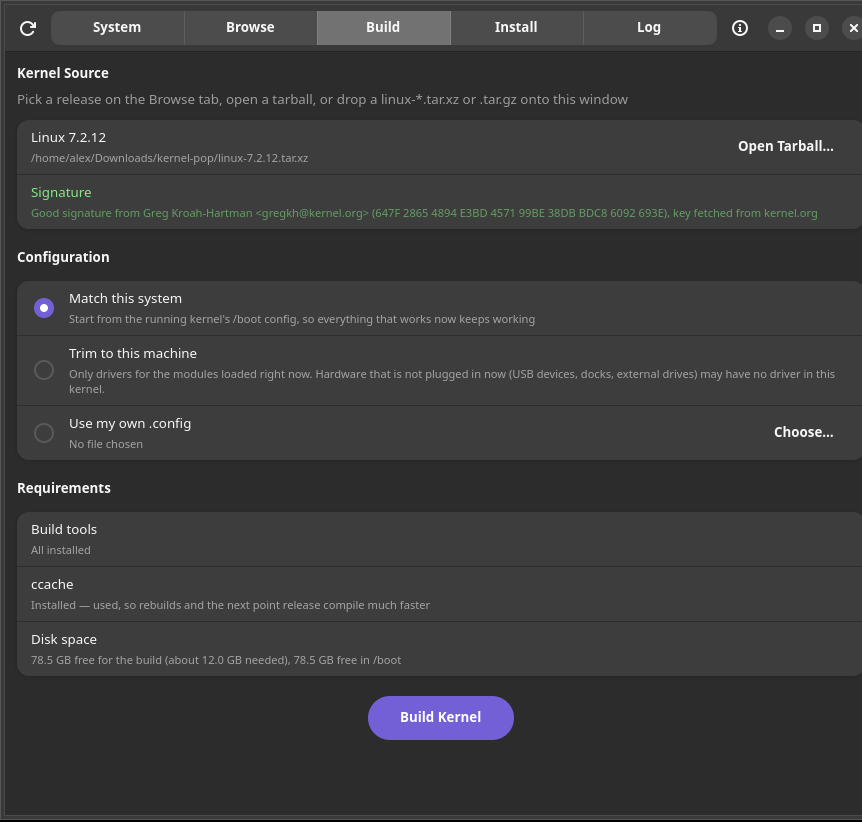
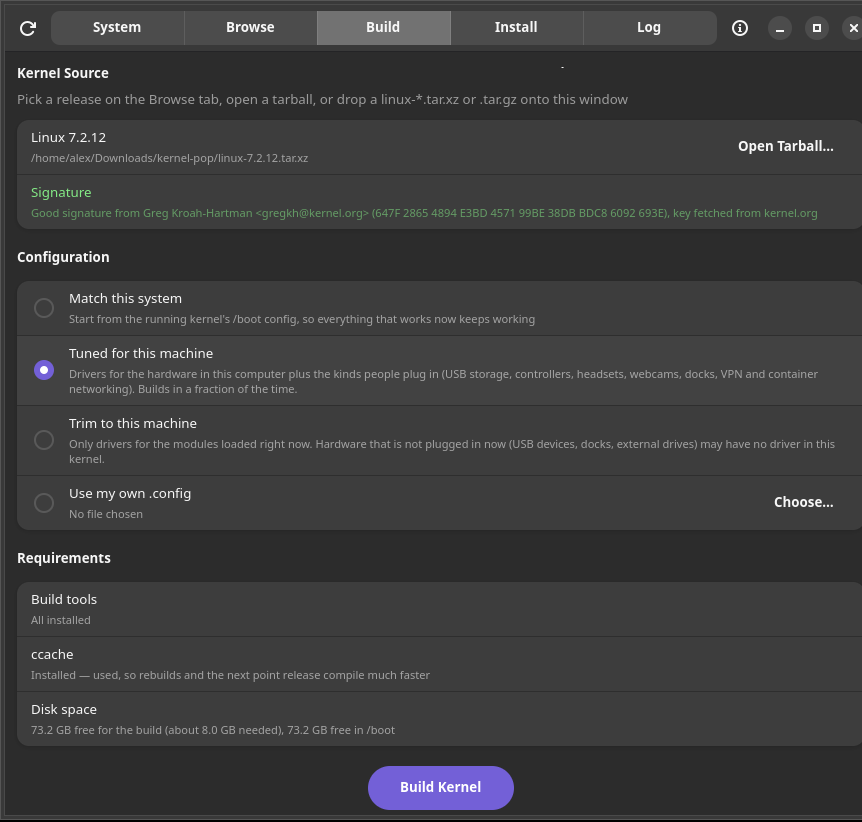
Add the "Tuned for this machine" configuration
localmodconfig over the modules loaded now, the modalias-resolved driver
of every device present, and a fixed list of drivers for hardware that is
often plugged in later (USB storage, file systems, input and game
controllers, USB audio and webcams, Bluetooth, USB network adapters and
tethering, docks, printers, VPN/container/VM networking). Linux 7.2.12 on
the test machine: 369 modules instead of 6703, 8 min instead of 26.
Match this system stays the default. Release 2.1.0.

diff --git a/src/build.rs b/src/build.rs
@@ -46,6 +46,45 @@ pub const BUILD_DEPS: &[&str] = &[
 pub const BUILD_NEED_BYTES: u64 = 12 * 1024 * 1024 * 1024;
 /// The same for "Trim to this machine", which builds far fewer modules.
 pub const TRIM_BUILD_NEED_BYTES: u64 = 6 * 1024 * 1024 * 1024;
+/// The same for "Tuned for this machine".
+pub const TUNED_BUILD_NEED_BYTES: u64 = 8 * 1024 * 1024 * 1024;
+
+/// Drivers "Tuned for this machine" always keeps, for hardware that is often
+/// plugged in later or used only now and then: USB storage and card
+/// readers, the common file systems, input devices and game controllers,
+/// USB audio and webcams, Bluetooth, USB network adapters and phone
+/// tethering, docks, printers and serial adapters, and the networking that
+/// VPNs, containers and virtual machines load on demand. Names that do not
+/// exist in a tree are ignored by localmodconfig.
+pub const TUNED_EXTRA_MODULES: &[&str] = &[
+    // storage and card readers
+    "usb_storage", "uas", "sd_mod", "sr_mod", "cdrom", "mmc_block", "sdhci", "sdhci_pci", "sdhci_acpi",
+    "rtsx_pci", "rtsx_pci_sdmmc", "rtsx_usb", "rtsx_usb_sdmmc", "nvme",
+    // file systems
+    "vfat", "fat", "msdos", "exfat", "ntfs3", "isofs", "udf", "ext4", "btrfs", "xfs", "f2fs", "hfsplus",
+    "fuse", "squashfs", "overlay", "nls_utf8", "nls_cp437", "nls_iso8859_1", "nls_ascii", "cifs", "nfs", "nfsv4",
+    // input and game controllers
+    "usbhid", "hid_generic", "hid_multitouch", "hid_logitech_dj", "hid_logitech_hidpp", "hid_sony",
+    "hid_playstation", "hid_nintendo", "hid_microsoft", "hid_apple", "hid_steam", "xpad", "joydev", "uinput",
+    "i2c_hid_acpi",
+    // audio and video
+    "snd_usb_audio", "uvcvideo",
+    // Bluetooth
+    "bluetooth", "btusb", "btintel", "btrtl", "btbcm", "btmtk",
+    // USB network adapters and phone tethering
+    "usbnet", "cdc_ether", "cdc_ncm", "cdc_mbim", "rndis_host", "r8152", "ax88179_178a", "asix", "ipheth",
+    // docks, USB-C and Thunderbolt
+    "thunderbolt", "typec_displayport", "ucsi_acpi", "typec_ucsi",
+    // printers and serial adapters
+    "usblp", "cdc_acm", "usbserial", "ftdi_sio", "cp210x", "ch341", "pl2303",
+    // VPNs, containers and virtual machines
+    "tun", "tap", "wireguard", "veth", "bridge", "br_netfilter", "vxlan", "macvlan", "ipvlan", "nf_tables",
+    "nft_compat", "nft_chain_nat", "nf_nat", "nf_conntrack", "xt_MASQUERADE", "xt_conntrack", "xt_addrtype",
+    "iptable_nat", "iptable_filter", "ip6table_nat", "ip6table_filter", "kvm", "kvm_intel", "kvm_amd",
+    "vhost_net", "vhost_vsock",
+    // encrypted and image-backed disks, compressed swap, Wine/Proton sync
+    "dm_crypt", "dm_mod", "loop", "zram", "ntsync",
+];
 
 /// The build profile that keeps bindeb-pkg from making a linux-image-*-dbg
 /// package (its prefix follows KDEB_SOURCENAME, left at its default).
@@ -124,6 +163,9 @@ pub enum ConfigMode {
     MatchSystem,
     /// The same, then localmodconfig against the loaded modules.
     TrimToMachine,
+    /// The same, then localmodconfig against the loaded modules, the
+    /// drivers for every device present, and `TUNED_EXTRA_MODULES`.
+    TunedForMachine,
     /// A .config file the user chose, with the fixes.
     OwnConfig(PathBuf),
 }
@@ -133,6 +175,7 @@ impl ConfigMode {
         match self {
             ConfigMode::MatchSystem => "Match this system",
             ConfigMode::TrimToMachine => "Trim to this machine",
+            ConfigMode::TunedForMachine => "Tuned for this machine",
             ConfigMode::OwnConfig(_) => "Use my own .config",
         }
     }
@@ -140,6 +183,7 @@ impl ConfigMode {
     pub fn disk_need(&self) -> u64 {
         match self {
             ConfigMode::TrimToMachine => TRIM_BUILD_NEED_BYTES,
+            ConfigMode::TunedForMachine => TUNED_BUILD_NEED_BYTES,
             _ => BUILD_NEED_BYTES,
         }
     }
@@ -598,23 +642,38 @@ fn configure(req: &BuildRequest, tree: &Path, base_config: &Path, r: &Runner) ->
     };
     olddefconfig()?;
 
-    if req.mode == ConfigMode::TrimToMachine {
-        let lsmod = Command::new("lsmod").output().context("Could not run lsmod")?;
-        if !lsmod.status.success() {
-            bail!("lsmod failed");
+    if matches!(req.mode, ConfigMode::TrimToMachine | ConfigMode::TunedForMachine) {
+        let loaded = loaded_modules().context("Could not read the loaded modules")?;
+        let mut keep: Vec<String> = loaded.clone();
+        let mut what = format!("the {} modules loaded right now", loaded.len());
+        if req.mode == ConfigMode::TunedForMachine {
+            let present = present_device_modules();
+            let extra: Vec<String> = TUNED_EXTRA_MODULES.iter().map(|m| m.to_string()).collect();
+            let new_present = present.iter().filter(|m| !loaded.contains(m)).count();
+            keep.extend(present);
+            keep.extend(extra);
+            what = format!(
+                "the {} modules loaded right now, {} more for devices present but not in use, and {} common plug-in, VPN, container and VM drivers",
+                loaded.len(),
+                new_present,
+                TUNED_EXTRA_MODULES.len()
+            );
         }
+        keep.sort();
+        keep.dedup();
         let list = tree.join(".kernel-pop-lsmod");
-        std::fs::write(&list, &lsmod.stdout)?;
-        let loaded = String::from_utf8_lossy(&lsmod.stdout).lines().count().saturating_sub(1);
+        std::fs::write(&list, lsmod_text(&keep))?;
         let mut c = make(tree, ccache);
         c.arg(format!("LSMOD={}", list.display())).arg("localmodconfig");
         r.run(c, "make localmodconfig")?;
         apply_fixes()?;
         olddefconfig()?;
-        fixes.push(format!("localmodconfig: only modules for the {loaded} modules loaded right now"));
-        notes.push(
-            "Trimmed: hardware that is not plugged in or in use right now (USB devices, docks, external drives) may have no driver in this kernel.".into(),
-        );
+        fixes.push(format!("localmodconfig: only drivers for {what}"));
+        notes.push(if req.mode == ConfigMode::TrimToMachine {
+            "Trimmed: hardware that is not plugged in or in use right now (USB devices, docks, external drives) may have no driver in this kernel.".into()
+        } else {
+            "Tuned: hardware that is not present now and not a common plug-in kind (an unusual USB gadget, a different Wi-Fi card) may have no driver in this kernel; Match this system includes everything.".into()
+        });
     }
 
     let config = std::fs::read_to_string(tree.join(".config"))?;
@@ -677,6 +736,78 @@ fn configure(req: &BuildRequest, tree: &Path, base_config: &Path, r: &Runner) ->
         r.note(l.to_string());
     }
     Ok(summary)
+}
+
+/// Module names from /proc/modules.
+fn loaded_modules() -> Result<Vec<String>> {
+    Ok(parse_proc_modules(&std::fs::read_to_string("/proc/modules")?))
+}
+
+pub fn parse_proc_modules(text: &str) -> Vec<String> {
+    text.lines().filter_map(|l| l.split_whitespace().next()).map(normalize_module).collect()
+}
+
+/// Module names use '_' and '-' interchangeably; localmodconfig compares
+/// them with '_'.
+fn normalize_module(name: &str) -> String {
+    name.trim().replace('-', "_")
+}
+
+/// The drivers for every device the kernel sees, in use or not: each
+/// device's modalias resolved with `modprobe --resolve-alias`.
+fn present_device_modules() -> Vec<String> {
+    let mut aliases = std::collections::BTreeSet::new();
+    collect_modaliases(Path::new("/sys/devices"), &mut aliases, 0);
+    let mut mods = std::collections::BTreeSet::new();
+    for chunk in aliases.into_iter().collect::<Vec<_>>().chunks(64) {
+        // One modprobe per alias (it resolves one at a time); run them in a
+        // single shell to keep the process count down.
+        let script = chunk.iter().map(|a| format!("modprobe -R {} 2>/dev/null;", shell_quote(a))).collect::<String>();
+        if let Ok(out) = Command::new("sh").arg("-c").arg(script).output() {
+            for l in String::from_utf8_lossy(&out.stdout).lines() {
+                if !l.trim().is_empty() {
+                    mods.insert(normalize_module(l));
+                }
+            }
+        }
+    }
+    mods.into_iter().collect()
+}
+
+fn collect_modaliases(dir: &Path, out: &mut std::collections::BTreeSet<String>, depth: usize) {
+    if depth > 24 {
+        return;
+    }
+    let Ok(rd) = std::fs::read_dir(dir) else { return };
+    for e in rd.flatten() {
+        let Ok(ft) = e.file_type() else { continue };
+        if ft.is_symlink() {
+            continue;
+        }
+        if ft.is_dir() {
+            collect_modaliases(&e.path(), out, depth + 1);
+        } else if e.file_name() == "modalias" {
+            if let Ok(a) = std::fs::read_to_string(e.path()) {
+                let a = a.trim();
+                if !a.is_empty() {
+                    out.insert(a.to_string());
+                }
+            }
+        }
+    }
+}
+
+fn shell_quote(s: &str) -> String {
+    format!("'{}'", s.replace('\'', "'\\''"))
+}
+
+/// An lsmod-style listing of `modules` for localmodconfig's LSMOD.
+pub fn lsmod_text(modules: &[String]) -> String {
+    let mut s = String::from("Module                  Size  Used by\n");
+    for m in modules {
+        s.push_str(&format!("{m} 0 0\n"));
+    }
+    s
 }
 
 /// A kernel release string is used in paths and package names: a plain token.
@@ -984,6 +1115,21 @@ mod tests {
     }
 
     #[test]
+    fn module_lists_for_localmodconfig() {
+        let proc = "nvidia_drm 167936 88 - Live 0x0000000000000000 (POE)\nsnd-hda-intel 69632 3 - Live 0x0\n";
+        assert_eq!(parse_proc_modules(proc), ["nvidia_drm", "snd_hda_intel"]);
+        let text = lsmod_text(&["btusb".to_string(), "usb_storage".to_string()]);
+        assert_eq!(text, "Module                  Size  Used by\nbtusb 0 0\nusb_storage 0 0\n");
+        assert_eq!(shell_quote("pci:v0000'x"), "'pci:v0000'\\''x'");
+        // Every extra is a plain module name, listed once.
+        let mut seen = std::collections::HashSet::new();
+        for m in TUNED_EXTRA_MODULES {
+            assert!(m.chars().all(|c| c.is_ascii_alphanumeric() || c == '_'), "{m}");
+            assert!(seen.insert(*m), "{m} listed twice");
+        }
+    }
+
+    #[test]
     fn config_values() {
         let c = "CONFIG_RUST=y\nCONFIG_LOCALVERSION=\"-kernelpop\"\n# CONFIG_DEBUG_INFO_NONE is not set\nCONFIG_E1000=m\nCONFIG_EXT4_FS=y\nCONFIG_SND=m\n";
         assert_eq!(config_value(c, "RUST").as_deref(), Some("y"));
@@ -1216,6 +1362,7 @@ mod tests {
         let path = PathBuf::from(std::env::var("KERNEL_POP_LIVE_TARBALL").expect("set KERNEL_POP_LIVE_TARBALL"));
         let mode = match std::env::var("KERNEL_POP_LIVE_MODE").as_deref() {
             Ok("trim") => ConfigMode::TrimToMachine,
+            Ok("tuned") => ConfigMode::TunedForMachine,
             _ => ConfigMode::MatchSystem,
         };
         let tarball = crate::source::inspect(&path).unwrap();

diff --git a/src/ui.rs b/src/ui.rs
@@ -70,6 +70,7 @@ enum SigState {
 enum ModeChoice {
     #[default]
     Match,
+    Tuned,
     Trim,
     Own,
 }
@@ -106,6 +107,7 @@ impl AppState {
     fn config_mode(&self) -> Option<ConfigMode> {
         match self.mode {
             ModeChoice::Match => Some(ConfigMode::MatchSystem),
+            ModeChoice::Tuned => Some(ConfigMode::TunedForMachine),
             ModeChoice::Trim => Some(ConfigMode::TrimToMachine),
             ModeChoice::Own => self.own_config.clone().map(ConfigMode::OwnConfig),
         }
@@ -444,6 +446,8 @@ pub fn build_ui(app: &Application) {
     let config_group = PreferencesGroup::builder().title("Configuration").build();
     let match_check = CheckButton::new();
     match_check.set_active(true);
+    let tuned_check = CheckButton::new();
+    tuned_check.set_group(Some(&match_check));
     let trim_check = CheckButton::new();
     trim_check.set_group(Some(&match_check));
     let own_check = CheckButton::new();
@@ -454,6 +458,12 @@ pub fn build_ui(app: &Application) {
         .activatable_widget(&match_check)
         .build();
     match_row.add_prefix(&match_check);
+    let tuned_row = ActionRow::builder()
+        .title("Tuned for this machine")
+        .subtitle("Drivers for the hardware in this computer plus the kinds people plug in (USB storage, controllers, headsets, webcams, docks, VPN and container networking). Builds in a fraction of the time.")
+        .activatable_widget(&tuned_check)
+        .build();
+    tuned_row.add_prefix(&tuned_check);
     let trim_row = ActionRow::builder()
         .title("Trim to this machine")
         .subtitle("Only drivers for the modules loaded right now. Hardware that is not plugged in now (USB devices, docks, external drives) may have no driver in this kernel.")
@@ -470,6 +480,7 @@ pub fn build_ui(app: &Application) {
     own_btn.add_css_class("flat");
     own_row.add_suffix(&own_btn);
     config_group.add(&match_row);
+    config_group.add(&tuned_row);
     config_group.add(&trim_row);
     config_group.add(&own_row);
     build_page.append(&config_group);
@@ -1820,7 +1831,12 @@ pub fn build_ui(app: &Application) {
                 refresh_requirements();
             }
         };
-        for (check, m) in [(&match_check, ModeChoice::Match), (&trim_check, ModeChoice::Trim), (&own_check, ModeChoice::Own)] {
+        for (check, m) in [
+            (&match_check, ModeChoice::Match),
+            (&tuned_check, ModeChoice::Tuned),
+            (&trim_check, ModeChoice::Trim),
+            (&own_check, ModeChoice::Own),
+        ] {
             let set_mode = set_mode.clone();
             check.connect_toggled(move |c| {
                 if c.is_active() {

diff --git a/docs/SOURCE_BUILD.md b/docs/SOURCE_BUILD.md
@@ -123,9 +123,24 @@ in its allowlist.
 Base config:
 
 - **Match this system** (default): `/boot/config-$(uname -r)`.
+- **Tuned for this machine**: the same, then `make LSMOD=<list>
+  localmodconfig` with three sources joined: the modules loaded right now
+  (from `/proc/modules`; modules rarely unload, so this covers what was used
+  since the last boot), the driver for every device the kernel sees in use
+  or not (each `/sys/devices/**/modalias` resolved with `modprobe -R`), and
+  a fixed list of drivers for hardware that is often plugged in later or
+  used now and then (`build::TUNED_EXTRA_MODULES`: USB storage, card
+  readers, common file systems, input devices and game controllers, USB
+  audio and webcams, Bluetooth, USB network adapters and phone tethering,
+  docks and Thunderbolt, printers and serial adapters, VPN, container and
+  VM networking, dm-crypt, loop, zram, ntsync). Hardware that is neither
+  present nor one of those kinds (an unusual USB gadget, a different Wi-Fi
+  card) may have no driver. Kernel messages in the journal were also
+  tried as a history of earlier boots; on the test machine they named no
+  module that was not loaded already, so they are not used.
 - **Trim to this machine**: the same, then
   `make LSMOD=<lsmod output> localmodconfig` with the modules loaded right
-  now. Hardware that is not plugged in or in use (USB devices, docks,
+  now only. Hardware that is not plugged in or in use (USB devices, docks,
   external drives) may have no driver.
 - **Use my own .config**: the chosen file.
 
@@ -209,6 +224,7 @@ installed but empty (cold), debug info off:
 | Mode | Modules | Build time | Build tree at its largest | Image deb | Headers deb |
 | --- | --- | --- | --- | --- | --- |
 | Match this system | 6703 | 26 min 5 s | 6.7 GB | 117 MB | 10.6 MB |
+| Tuned for this machine (196 loaded, 23 more for present devices, 110 extras) | 369 | 8 min 2 s | 3.5 GB | 34 MB | 10.3 MB |
 | Trim to this machine (201 modules loaded) | 226 | 6 min 41 s | 3.2 GB | 28.5 MB | 10.3 MB |
 
 The Match build took longer here than the 18 min 48 s in the container

diff --git a/README.md b/README.md
@@ -44,9 +44,13 @@ VFS-panics on boot. This app is built around not letting that happen:
   signature blocks the build; for your own patched tree there is one
   explicit "Build unverified source" switch per tarball, and the build log
   says the source was unverified
-- Three configurations: **Match this system** (the default: the running
-  kernel's `/boot/config-*`), **Trim to this machine** (only drivers for
-  the modules loaded right now) and **Use my own .config**. The fixes every
+- Four configurations: **Match this system** (the default: the running
+  kernel's `/boot/config-*`), **Tuned for this machine** (only drivers for
+  the hardware in this computer plus the kinds people plug in, such as USB
+  storage, controllers, headsets, webcams, docks and VPN/container
+  networking; about a third of the build time), **Trim to this machine**
+  (only drivers for the modules loaded right now) and **Use my own
+  .config**. The fixes every
   Ubuntu config needs for a kernel.org tree are applied automatically, and
   a summary is shown before the build starts
 - Builds never run as root. Missing build tools are listed and installed

diff --git a/CHANGELOG.md b/CHANGELOG.md
@@ -4,6 +4,18 @@ One `## <version> — <date>` heading per released version, newest first. A rele
 carries its section as written, and the AppStream `<releases>` list is generated from these
 headings.
 
+## 2.1.0 — 2026-10-24
+
+**New configuration: Tuned for this machine.** It builds only the drivers this computer
+needs: everything loaded now, the driver for every device it has (in use or not), and the
+kinds of hardware people plug in later or use now and then: USB drives and card readers,
+the common file systems, keyboards, mice and game controllers, USB headsets and webcams,
+Bluetooth, USB network adapters and phone tethering, docks and Thunderbolt, printers, and
+the networking VPNs, containers and virtual machines need. On a typical desktop that is a
+few hundred drivers instead of almost seven thousand, so a kernel builds in about a third
+of the time (8 minutes instead of 26 on the test machine). Match this system stays the
+default and still includes everything.
+
 ## 2.0.0 — 2026-10-24
 
 **Kernel Pop now builds kernels from kernel.org source.** Ubuntu's mainline kernel archive

diff --git a/AGENTS.md b/AGENTS.md
@@ -52,6 +52,9 @@ and the debug-info measurement are in `docs/SOURCE_BUILD.md`.
   (`SIGNER_ADDRESSES`) counts as verified. The check runs on the private
   copy `source::private_copy` makes, which is also what the build extracts.
 - `build.rs` — `BUILD_DEPS` (equal to the script's allowlist, a test checks),
+  the config modes (`ConfigMode`; Tuned feeds localmodconfig the loaded
+  modules, the modalias-resolved drivers of every device and
+  `TUNED_EXTRA_MODULES`),
   `prepare` (disk preflight, extract into `~/.cache/kernel-pop/build/`,
   configure, `ConfigSummary`) and `build` (`make bindeb-pkg`, publish to
   `~/Downloads/kernel-pop/linux-<release>/` with `SHA256SUMS`, the final
